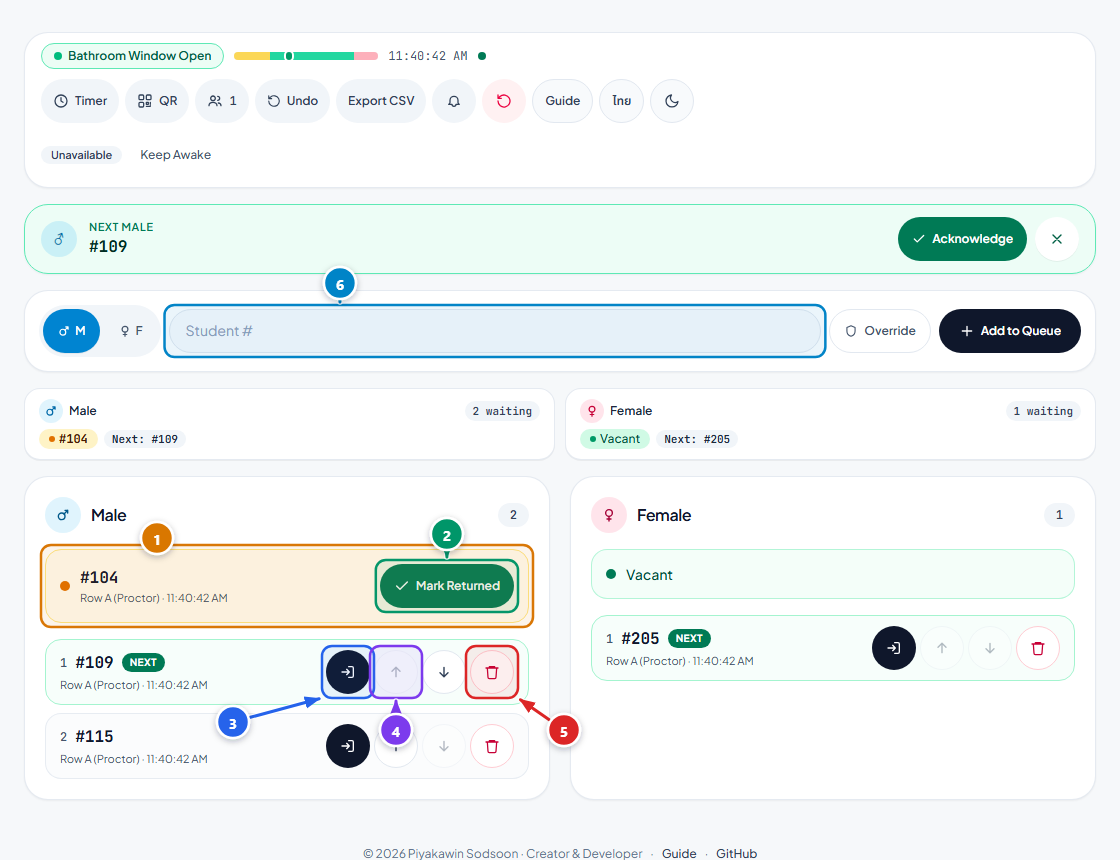
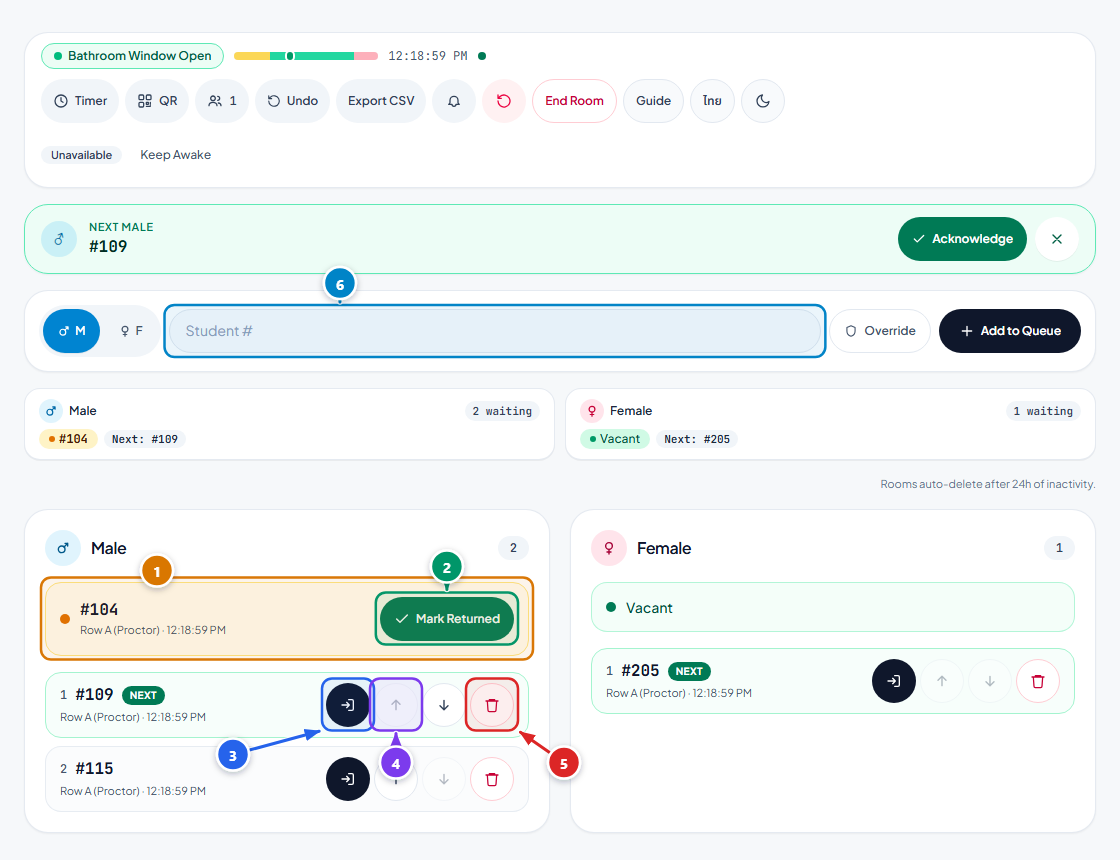
docs: sync guidebook screenshots and bilingual manual with all latest features

diff --git a/src/lib/i18n/guideContent.ts b/src/lib/i18n/guideContent.ts
@@ -397,8 +397,47 @@ export const GUIDE_CONTENT: Record<Locale, GuideBundle> = {
             detail:
               "Opens this bilingual manual from any screen in ExamQ.",
           },
+          {
+            num: 5,
+            color: "#e11d48",
+            action: "Click “End Room” → “Confirm Delete”",
+            detail:
+              "Immediately deletes the exam room from the database when finished (rooms also auto-delete after 24 hours of inactivity).",
+          },
         ],
         tip: "All exam rooms automatically expire and delete from the database 24 hours after the last activity. You can also click End Room → Confirm Delete to remove a room immediately after an exam.",
+      },
+      {
+        id: "resume-session",
+        role: "all",
+        image: "/guide/09-resume-session.png",
+        title: "9. Auto-Save & 1-Tap Resume",
+        subtitle:
+          "Never lose your exam room if you leave the page or close the browser tab — both Controller and Staff sessions save automatically.",
+        steps: [
+          {
+            num: 1,
+            color: "#0284c7",
+            action: "Check your saved Role & Session ID",
+            detail:
+              "Displays whether you are Controller or Staff (with your row label) and the room code.",
+          },
+          {
+            num: 2,
+            color: "#059669",
+            action: "Click “Resume”",
+            detail:
+              "Jumps straight back into your active Controller Dashboard or Staff View with zero re-joining.",
+          },
+          {
+            num: 3,
+            color: "#dc2626",
+            action: "Click “×” (Dismiss)",
+            detail:
+              "Removes an old room shortcut from your browser’s recent list.",
+          },
+        ],
+        tip: "Your credentials stay saved in your browser even if you close the tab or switch to Guide and come back.",
       },
     ],
   },
@@ -769,8 +808,47 @@ export const GUIDE_CONTENT: Record<Locale, GuideBundle> = {
             detail:
               "เปิดคู่มือการใช้งาน 2 ภาษานี้ได้จากทุกหน้าของ ExamQ",
           },
+          {
+            num: 5,
+            color: "#e11d48",
+            action: "คลิก “ปิดห้อง” → “ยืนยันลบห้อง”",
+            detail:
+              "ลบห้องสอบออกจากฐานข้อมูลทันทีเมื่อสอบเสร็จ (และระบบจะลบให้อัตโนมัติหลังไม่มีการใช้งานครบ 24 ชม.)",
+          },
         ],
         tip: "ทุกห้องสอบจะหมดอายุและถูกลบออกจากฐานข้อมูลโดยอัตโนมัติหลังไม่มีการใช้งานครบ 24 ชั่วโมง หรือผู้คุมห้องสามารถกด “ปิดห้อง” → “ยืนยันลบห้อง” เพื่อลบทันทีหลังจบการสอบ",
+      },
+      {
+        id: "resume-session",
+        role: "all",
+        image: "/guide/09-resume-session.png",
+        title: "9. บันทึกห้องสอบอัตโนมัติและเข้าห้องต่อใน 1 คลิก",
+        subtitle:
+          "ไม่ต้องกังวลหากเผลอปิดแท็บหรือออกจากหน้าสอบ ทั้งผู้คุมห้องและผู้ช่วยจะถูกบันทึกสิทธิ์ไว้ให้อัตโนมัติ",
+        steps: [
+          {
+            num: 1,
+            color: "#0284c7",
+            action: "ตรวจสอบบทบาทและรหัสห้องที่บันทึกไว้",
+            detail:
+              "แสดงสถานะว่าเป็นผู้คุมห้อง (Controller) หรือผู้ช่วย (Staff พร้อมชื่อแถว) และรหัสห้องสอบ",
+          },
+          {
+            num: 2,
+            color: "#059669",
+            action: "คลิก “เข้าห้องต่อ” (Resume)",
+            detail:
+              "กลับเข้าสู่หน้าจัดการคิวเดิมได้ทันทีโดยไม่ต้องกรอกชื่อหรือสแกน QR ใหม่",
+          },
+          {
+            num: 3,
+            color: "#dc2626",
+            action: "คลิก “×” (ลบรายการ)",
+            detail:
+              "ซ่อนรายการห้องสอบเก่าออกจากหน้าหลักเมื่อไม่ต้องการใช้งานแล้ว",
+          },
+        ],
+        tip: "ระบบจะจำห้องสอบไว้ในเบราว์เซอร์ให้อัตโนมัติ แม้ปิดแท็บหรือเปิดดูคู่มือแล้วกลับมาใหม่",
       },
     ],
   },

diff --git a/tests/e2e/guide.spec.ts b/tests/e2e/guide.spec.ts
@@ -16,12 +16,12 @@ test("bilingual instruction manual (/guide) renders all sections, screenshots, a
 
   await expect(page.getByRole("heading", { name: "ExamQ User Manual" })).toBeVisible();
   await expect(page.getByTestId("guide-section-home-onboarding")).toBeVisible();
-  await expect(page.getByTestId("guide-section-reset-sync")).toBeVisible();
+  await expect(page.getByTestId("guide-section-resume-session")).toBeVisible();
 
-  // Verify all 8 annotated screenshots load cleanly
+  // Verify all 9 annotated screenshots load cleanly
   const images = page.locator("section img");
-  await expect(images).toHaveCount(8);
-  for (let i = 0; i < 8; i += 1) {
+  await expect(images).toHaveCount(9);
+  for (let i = 0; i < 9; i += 1) {
     const img = images.nth(i);
     await img.scrollIntoViewIfNeeded();
     await expect

diff --git a/docs/manual.md b/docs/manual.md
@@ -117,5 +117,18 @@ Inside the live web app, you can also open the interactive guide at **`/guide`**
 | **2** | **Click “Export CSV”** — Downloads an Excel-ready UTF-8 CSV log with exam settings, staff list, and all timestamps/durations. | **คลิก “ส่งออก CSV”** — ดาวน์โหลดไฟล์ CSV (รองรับภาษาไทยใน Excel) พร้อมข้อมูลเวลาสอบและบันทึกเข้า-ออกทั้งหมด |
 | **3** | **Click Reset (↻) → “Confirm Clear”** — Two-step reset clears all queue entries for the next exam while keeping proctors connected. | **คลิกไอคอนรีเซ็ต (↻) → “ยืนยันล้างคิว”** — ล้างคิวทั้งหมดเพื่อเริ่มสอบรอบใหม่ โดยผู้ช่วยยังอยู่ในห้องเดิม |
 | **4** | **Click “Guide”** — Opens the interactive `/guide` manual from any page. | **คลิก “คู่มือ” (Guide)** — เปิดคู่มือ `/guide` ได้จากทุกหน้า |
+| **5** | **Click “End Room” → “Confirm Delete”** — Immediately deletes the room from the database when finished (inactive rooms also auto-delete after 24h). | **คลิก “ปิดห้อง” → “ยืนยันลบห้อง”** — ลบห้องออกจากฐานข้อมูลทันทีเมื่อสอบเสร็จ (ห้องที่ไม่มีการใช้งานจะถูกลบอัตโนมัติใน 24 ชม.) |
 
 > **Auto-Expiry & End Room / ลบห้องอัตโนมัติ 24 ชม.:** Inactive rooms automatically delete from the database after 24 hours. Controllers can also click **End Room → Confirm Delete / ปิดห้อง → ยืนยันลบห้อง** to delete a room immediately after an exam.
+
+---
+
+## 9. Auto-Save & 1-Tap Resume / บันทึกห้องสอบอัตโนมัติและเข้าห้องต่อใน 1 คลิก
+
+![Auto-Save & Resume](../public/guide/09-resume-session.png)
+
+| # | English | ภาษาไทย |
+|---|---|---|
+| **1** | **Saved Role & Session ID** — Shows your role (`Controller` or `Staff · Row`) and room code. | **บทบาทและรหัสห้องที่บันทึกไว้** — แสดงว่าเป็นผู้คุมห้องหรือผู้ช่วย พร้อมชื่อแถวและรหัสห้อง |
+| **2** | **Click “Resume”** — Jumps straight back into your active room without re-joining. | **คลิก “เข้าห้องต่อ” (Resume)** — กลับเข้าห้องสอบเดิมได้ทันทีโดยไม่ต้องสแกนหรือกรอกชื่อใหม่ |
+| **3** | **Click “×”** — Dismisses an old room shortcut from Home. | **คลิก “×”** — ลบรายการห้องสอบเก่าออกจากหน้าหลัก |
